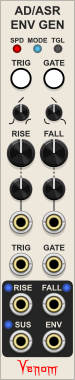
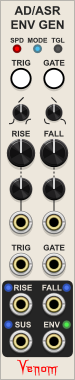
Add Env voltage range option

Changed region(s): [[0.5867, 0.8395, 0.96, 0.8684]]

diff --git a/src/AD_ASR.cpp b/src/AD_ASR.cpp
@@ -20,6 +20,7 @@ struct AD_ASR : VenomModule {
     RISE_OUT_PARAM,
     FALL_OUT_PARAM,
     SUS_OUT_PARAM,
+    ENV_OUT_PARAM,
     PARAMS_LEN
   };
   enum InputId {
@@ -133,6 +134,7 @@ struct AD_ASR : VenomModule {
     configSwitch<FixedSwitchQuantity>(RISE_OUT_PARAM, 0.f, 2.f, 0.f, "Rise output mode", {"Gate", "Start trigger", "End trigger"});
     configSwitch<FixedSwitchQuantity>(FALL_OUT_PARAM, 0.f, 3.f, 0.f, "Fall output mode", {"Gate", "Start trigger", "End trigger", "EOC trigger"});
     configSwitch<FixedSwitchQuantity>(SUS_OUT_PARAM, 0.f, 2.f, 0.f, "Sus output mode", {"Gate", "Start trigger", "End trigger"});
+    configSwitch<FixedSwitchQuantity>(ENV_OUT_PARAM, 0.f, 2.f, 0.f, "Env output mode", {"Unipolar 0 to 10", "Inverted unipolar 10 to 0", "Bipolar -5 to 5"});
     
     configOutput(RISE_OUTPUT, "Rise gate");
     configOutput(FALL_OUTPUT, "Fall gate");
@@ -271,6 +273,7 @@ struct AD_ASR : VenomModule {
     float fallShape = -params[FALL_SHAPE_PARAM].getValue()*0.95f;
     float riseCVAmt = params[RISE_CV_PARAM].getValue();
     float fallCVAmt = params[FALL_CV_PARAM].getValue();
+    int envMode = static_cast<int>(params[ENV_OUT_PARAM].getValue());
     // iterate the channels
     for (int s=0, c=0; c<channels; s++, c+=4){
       // compute trig CV state and trig
@@ -298,7 +301,16 @@ struct AD_ASR : VenomModule {
       shape = ifelse(stage[s]==3.f, fallShape, shape);
       float_4 curve = normSigmoid(phasor[s], shape);
       // set ENV output
-      outputs[ENV_OUTPUT].setVoltageSimd(curve*10.f, c);
+      switch (envMode) {
+        case 0:  // unipolar
+          outputs[ENV_OUTPUT].setVoltageSimd(curve*10.f, c);
+          break;
+        case 1:  // inverted unipolar
+          outputs[ENV_OUTPUT].setVoltageSimd(curve*-10.f + 10.f, c);
+          break;
+        default: // 2 bipolar
+          outputs[ENV_OUTPUT].setVoltageSimd(curve*10.f - 5.f, c);
+      }
       // progress through stages
       loop = mode==3.f ? gateCVNewState + gateBtnNewState : loop;
       float_4 newStage = stage[s];
@@ -429,6 +441,14 @@ struct AD_ASRWidget : VenomWidget {
     }
   };
 
+  struct EnvSwitch : GlowingSvgSwitchLockable {
+    EnvSwitch() {
+      addFrame(Svg::load(asset::plugin(pluginInstance,"res/smallGreenButtonSwitch.svg")));
+      addFrame(Svg::load(asset::plugin(pluginInstance,"res/smallOrangeButtonSwitch.svg")));
+      addFrame(Svg::load(asset::plugin(pluginInstance,"res/smallRedButtonSwitch.svg")));
+    }
+  };
+
   AD_ASRWidget(AD_ASR* module) {
     setModule(module);
     setVenomPanel("AD_ASR");
@@ -461,6 +481,7 @@ struct AD_ASRWidget : VenomWidget {
     addOutput(createOutputCentered<PolyPort>(Vec(54.f, 304.5), module, AD_ASR::FALL_OUTPUT));
 
     addParam(createLockableParam<OutSwitch>(Vec(4.f, 320.206f), module, AD_ASR::SUS_OUT_PARAM));
+    addParam(createLockableParam<EnvSwitch>(Vec(62.2f, 320.206f), module, AD_ASR::ENV_OUT_PARAM));
     addOutput(createOutputCentered<PolyPort>(Vec(21.f, 341.5), module, AD_ASR::SUS_OUTPUT));
     addOutput(createOutputCentered<PolyPort>(Vec(54.f, 341.5), module, AD_ASR::ENV_OUTPUT));
   }

diff --git a/README.md b/README.md
@@ -306,7 +306,12 @@ Note that Rise triggers are not fired if the envelope is retriggered during the 
 - **EOC (end of cycle) trigger** ***(orange)*** Produces a 1ms trigger when the Fall stage reaches 0V. The trigger is not fired if the envelope is retriggered before reaching 0V.
 
 ### ENV (Envelope) output
-The envelopes are output here.
+
+The envelopes are output here. The small button beside the label configures the voltage range of the envelope.
+
+- **Unipolar** ***(green, default)*** Normal envelope from 0V to 10V
+- **Inverted unipolar** ***(orange)*** Inverts the envelope from 10V to 0V
+- **Bipolar** ***(red)*** Offsets the envelope to -5V to 5V
 
 ### Alternate AD and ASR behavior via feedback
 
